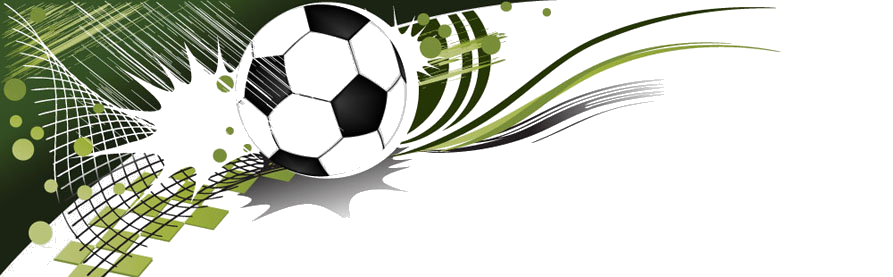
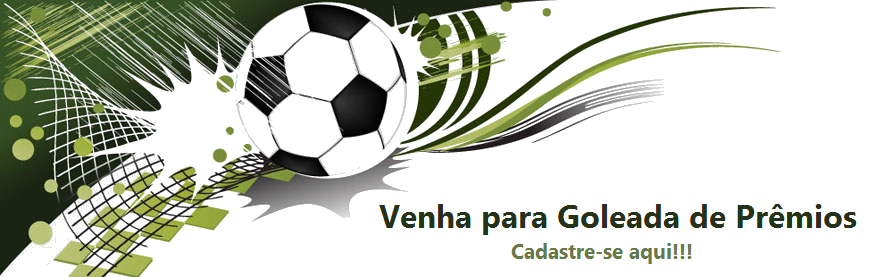
Componente React para gravar leads

Changed region(s): [[0.4233, 0.722, 0.9675, 0.8375], [0.5745, 0.8664, 0.7861, 0.9531]]

diff --git a/styles/css/vtex.rich-text.css b/styles/css/vtex.rich-text.css
@@ -1,3 +1,10 @@
 .container--icontext {
     height: 24px;
 }
+
+.container--modalTitle {
+    color: #59ff00;
+    text-align: center;
+    padding-left: 20px;
+    justify-content: center;
+}

diff --git a/styles/css/vtex.store-components.css b/styles/css/vtex.store-components.css
@@ -41,3 +41,11 @@
         width: fit-content;
     }
 }
+
+.imageElement--prize:hover {
+    cursor: pointer;
+}
+
+.carouselGaleryThumbs--imagesGrid {
+    visibility: hidden;
+}

diff --git a/styles/css/vtex.flex-layout.css b/styles/css/vtex.flex-layout.css
@@ -7,6 +7,7 @@
     margin: 0 auto;
     padding: 0;
     background-color: #424242;
+    height: 55px;
     border-radius: 5px;
 }
 
